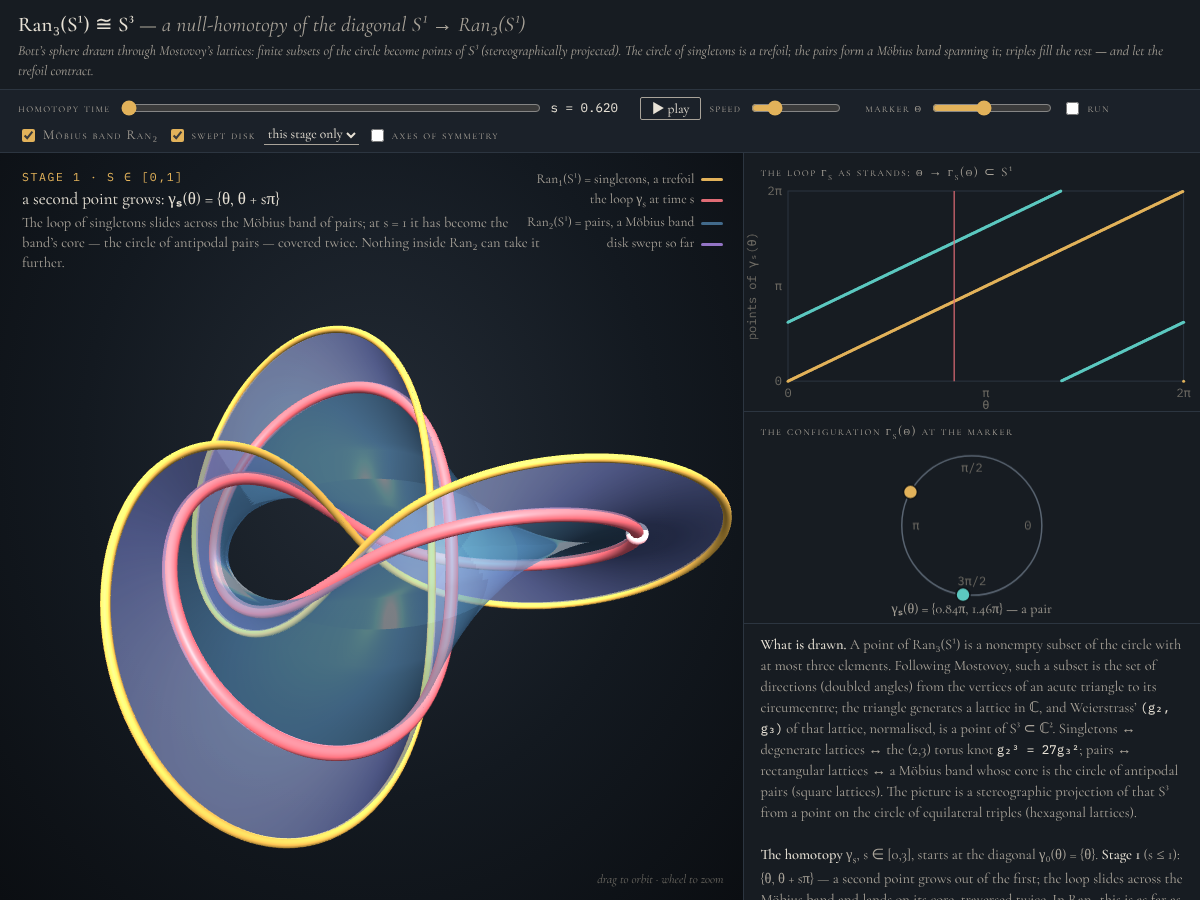
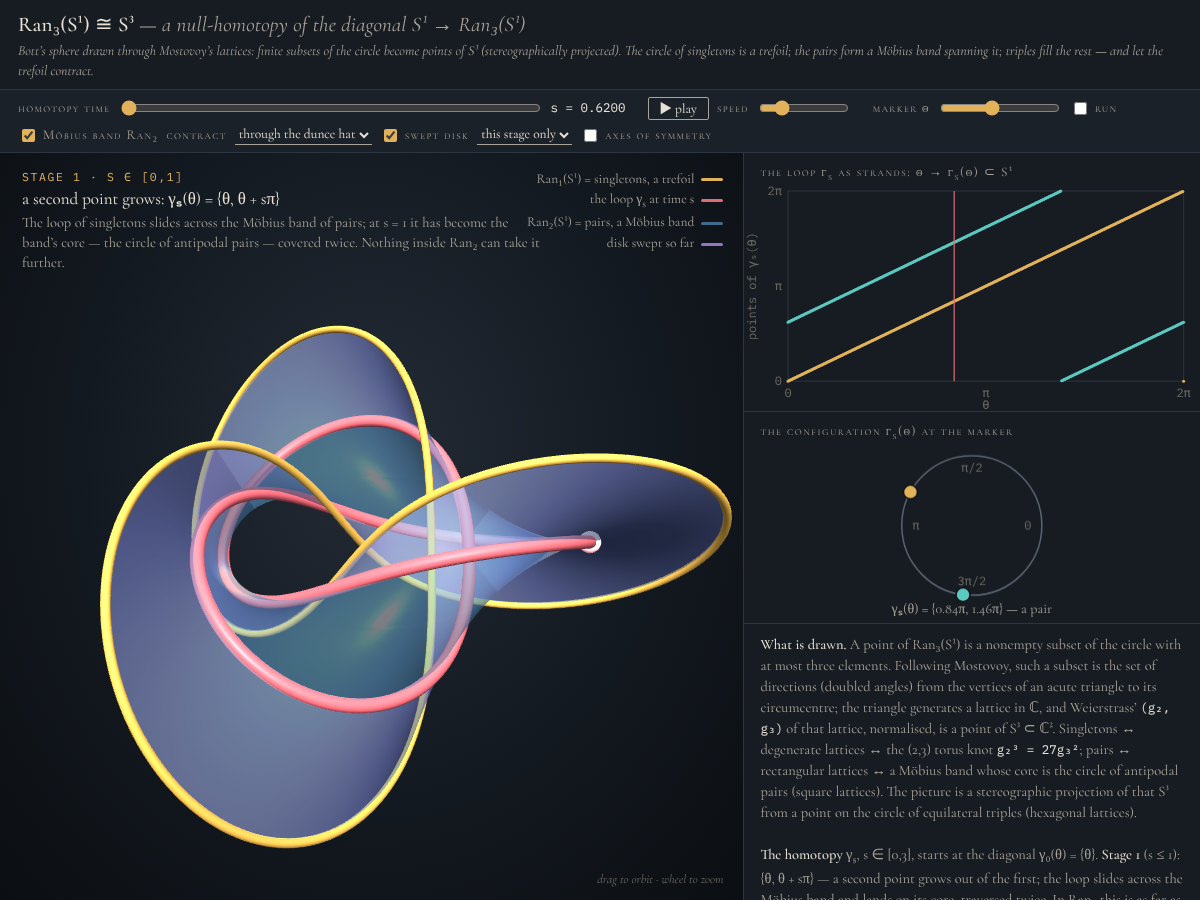
Ran₃(S¹) ≅ S³: null-homotopy of the diagonal; real <sub> in gallery titles

diff --git a/public/ran3-null-homotopy/index.html b/public/ran3-null-homotopy/index.html
@@ -65,11 +65,12 @@
   <div class="sub">Bott’s sphere drawn through Mostovoy’s lattices: finite subsets of the circle become points of S³ (stereographically projected). The circle of singletons is a trefoil; the pairs form a Möbius band spanning it; triples fill the rest — and let the trefoil contract.</div>
 </div>
 <div id="ctl">
-  <div class="grp"><label for="s-range">homotopy time</label><input type="range" id="s-range" min="0" max="3" step="0.002" value="0"><span class="val" id="s-val">s = 0.000</span></div>
+  <div class="grp"><label for="s-range">homotopy time</label><input type="range" id="s-range" min="0" max="3" step="0.0001" value="0"><span class="val" id="s-val">s = 0.0000</span></div>
   <div class="grp"><button id="play">▶ play</button><label for="speed">speed</label><input type="range" id="speed" min="0.05" max="1" step="0.01" value="0.25" style="width:90px"></div>
   <div class="grp"><label for="th-range">marker θ</label><input type="range" id="th-range" min="0" max="1" step="0.001" value="0.13" style="width:120px"><label class="tog"><input type="checkbox" id="th-run" checked>run</label></div>
   <div class="grp">
     <label class="tog"><input type="checkbox" id="show-band" checked>Möbius band Ran₂</label>
+    <label for="mode" style="font-variant:small-caps;letter-spacing:0.1em;color:var(--fg2);font-size:13.5px">contract</label><select id="mode"><option value="dunce" selected>through the dunce hat</option><option value="radial">straight to the origin</option></select>
     <label class="tog"><input type="checkbox" id="show-trace" checked>swept disk</label><select id="trace-mode"><option value="all">since s = 0</option><option value="stage" selected>this stage only</option></select>
     <label class="tog"><input type="checkbox" id="show-ref">axes of symmetry</label>
   </div>
@@ -94,7 +95,7 @@
       <b>The homotopy</b> γ<sub>s</sub>, s ∈ [0,3], starts at the diagonal γ₀(θ) = {θ}.
       <b>Stage 1</b> (s ≤ 1): {θ, θ + sπ} — a second point grows out of the first; the loop slides across the Möbius band and lands on its core, traversed twice. In Ran₂ this is as far as one can go: the boundary of a Möbius band is twice its core, so γ₀ is not null-homotopic there.
       <b>Stage 2</b> (1 ≤ s ≤ 2): still inside the band, the doubled core is slid to the doubled loop m(t) = {p, p + t}, which keeps one point fixed at p = −π/2.
-      <b>Stage 3</b> (2 ≤ s ≤ 3): using a genuine third point, m contracts: {p, p + 2πr, p + 2πr + (1−r)t} with r = s − 2 — one point sits at p, a second runs once around the circle, and the third sweeps the arc between them. The image of this last stage, the set of subsets containing p, is a dunce hat {p} ∪ Ran₂(S¹) inside Ran₃(S¹).
+      <b>Stage 3</b> (2 ≤ s ≤ 3): using a genuine third point, m contracts: {p, p + 2πr, p + 2πr + (1−r)t} with r = s − 2 — one point sits at p, a second runs once around the circle, and the third sweeps the arc between them. The image of this last stage, the set of subsets containing p, is a dunce hat {p} ∪ Ran₂(S¹) inside Ran₃(S¹).<br><br><b>Or straight to the origin.</b> The other setting of <i>contract</i> replaces stages 2–3 by the obvious move in the picture: the doubled core is the unit circle of the horizontal plane, so shrink it radially across the flat disk it bounds. That disk is explicit in S³ (lattices with g₃ purely imaginary) but not in configurations: each of its points is sent back to a subset of S¹ by inverting the whole construction — recover j, solve j(τ) by Newton’s method, rebuild the acute triangle — which is how the strand diagram is filled in. Its centre is one equilateral triple, and on the way in the disk passes through three singletons of the trefoil.
     </div>
   </div>
 </div>
@@ -133,7 +134,8 @@ function g2g3(w1,w2){
   return [[c4*g2[0],c4*g2[1]],[c6*g3[0],c6*g3[1]]];
 }
 const ETA_K=(()=>{let a=1;for(let i=0;i<40;i++){a-= (a*a+a*a*a/27-1)/(2*a+a*a/9);} return Math.atan2(Math.sqrt(a*a*a/27),a);})();
-const KPOW=Math.log(2)/Math.log((Math.PI/2)/ETA_K);
+const UK=ETA_K/(Math.PI/2), AFAT=(1-UK)/UK; // smooth Möbius-type fattening u ↦ a u/(1+(a−1)u), sends the trefoil's Hopf angle to π/4 with finite slope at the core
+const fatten=u=>AFAT*u/(1+(AFAT-1)*u), unfatten=v=>v/(AFAT-(AFAT-1)*v);
 // subset of S¹ (array of 1–3 angles) → point (G2,G3) of the round S³ ⊂ ℂ²
 function toS3(th){
   const al=th.map(t=>((t/2)%Math.PI+Math.PI)%Math.PI); while(al.length<3) al.push(al[0]); al.sort((a,b)=>a-b);
@@ -150,7 +152,7 @@ function toS3(th){
   for(let i=0;i<40;i++){const F=a2*x*x+a3*x*x*x-1, dF=2*a2*x+3*a3*x*x; const nx=x-F/dF; if(!(nx>0)) break; if(Math.abs(nx-x)<1e-15*x){x=nx;break;} x=nx;}
   const r2=Math.sqrt(a2)*x, r3=Math.sqrt(a3)*x*Math.sqrt(x);
   // fatten: Hopf angle η ↦ (π/2)(η/(π/2))^k so the trefoil sits on the Clifford torus
-  let eta=Math.atan2(r3,r2); eta=(Math.PI/2)*Math.pow(eta/(Math.PI/2),KPOW);
+  let eta=Math.atan2(r3,r2); eta=(Math.PI/2)*fatten(eta/(Math.PI/2));
   const p2=Math.atan2(g2[1],g2[0]), p3=Math.atan2(g3[1],g3[0]);
   return [Math.cos(eta)*Math.cos(p2),Math.cos(eta)*Math.sin(p2),Math.sin(eta)*Math.cos(p3),Math.sin(eta)*Math.sin(p3)];
 }
@@ -168,12 +170,83 @@ function gamma(th,s){
   if(s<=2){const u=s-1, h=(1-u)*Math.PI/2+u*tt; return [tt-Math.PI/2+h, tt-Math.PI/2-h];}
   const r=Math.min(s-2,1), t=2*tt; return [P0, P0+TAU*r, P0+TAU*r+(1-r)*t];
 }
+
+// ───────────────────────── the inverse: S³ → Ran₃(S¹) (for the radial contraction) ─────────────────────────
+function E46(tau){ // Eisenstein series at τ (already cusp-stretched)
+  const q=cexp([-TAU*tau[1], TAU*tau[0]]);let E4=[1,0],E6=[1,0],qn=[1,0];
+  for(let n=1;n<=11;n++){qn=cmul(qn,q);E4=[E4[0]+240*SIG3[n-1]*qn[0],E4[1]+240*SIG3[n-1]*qn[1]];E6=[E6[0]-504*SIG5[n-1]*qn[0],E6[1]-504*SIG5[n-1]*qn[1]];}
+  return [E4,E6];
+}
+function nuOf(tau){const [E4,E6]=E46(tau);return cdiv(cmul(E6,E6),cpow(E4,3));} // ν = 27g₃²/g₂³ = E₆²/E₄³
+function toF(t){ // reduce τ into the fundamental domain
+  for(let i=0;i<40;i++){t=[t[0]-Math.round(t[0]),t[1]];const m=t[0]*t[0]+t[1]*t[1];if(m>=1-1e-12)break;t=[-t[0]/m,t[1]/m];}
+  if(t[1]<0.8660254)t[1]=0.8660254;return t;
+}
+function chord(a,b){const d=cabs([a[0]-b[0],a[1]-b[1]]);return d/Math.sqrt((1+a[0]*a[0]+a[1]*a[1])*(1+b[0]*b[0]+b[1]*b[1]));}
+const NUGRID=(()=>{const g=[];for(let i=0;i<=24;i++){const x=-0.5+i/24;for(let j=0;j<=48;j++){const y=0.8660254*Math.pow(3.6,j/48);const t=[x,y];g.push([t,nuOf(t)]);}}return g;})();
+let TAU_HINT=null;
+function tauFromNu(nt){
+  let t=TAU_HINT?newton(nt,TAU_HINT):null;
+  if(!t||chord(nuOf(t),nt)>1e-6){let best=null,bd=1e9;for(const [tt,n] of NUGRID){const d=chord(n,nt);if(d<bd){bd=d;best=tt;}}t=newton(nt,best);if(chord(nuOf(t),nt)>1e-6)t=best;}
+  TAU_HINT=t;return t;
+}
+function newton(nt,best){
+  const h=1e-6, big=cabs(nt)>1;
+  // near the hexagonal point 1/ν has a triple zero, so iterate on a continuous cube root of 1/ν instead
+  let prev=null;
+  const croot=z=>{const m=Math.cbrt(cabs(z)), a=Math.atan2(z[1],z[0])/3;let bestz=null,bdd=1e9;for(let k=0;k<3;k++){const w=[m*Math.cos(a+k*TAU/3),m*Math.sin(a+k*TAU/3)];const d=prev?cabs([w[0]-prev[0],w[1]-prev[1]]):k;if(d<bdd){bdd=d;bestz=w;}}return bestz;};
+  const fn=big?(x=>croot(cdiv([1,0],nuOf(x)))):nuOf;
+  let t=best; if(big){prev=fn(t);} let target=big?croot(cdiv([1,0],nt)):nt;
+  for(let i=0;i<60;i++){
+    const F=fn(t);if(big)prev=F;const r=[F[0]-target[0],F[1]-target[1]];if(cabs(r)<1e-12*(1+cabs(target)))break;
+    const Fh=fn([t[0]+h,t[1]]);const dF=[(Fh[0]-F[0])/h,(Fh[1]-F[1])/h];if(cabs(dF)<1e-14)break;
+    let step=cdiv(r,dF);const L=cabs(step);if(L>0.25){step=[step[0]*0.25/L,step[1]*0.25/L];}
+    t=toF([t[0]-step[0],t[1]-step[1]]);
+  }
+  return t;
+}
+function circum(bx,by,cx,cy){const D=2*(bx*cy-by*cx);const b2=bx*bx+by*by,c2=cx*cx+cy*cy;return [(cy*b2-by*c2)/D,(bx*c2-cx*b2)/D];}
+// point G of the round S³ → subset of S¹ (array of angles)
+function fromS3(G){
+  const r2=Math.hypot(G[0],G[1]), r3=Math.hypot(G[2],G[3]);
+  let eta=Math.atan2(r3,r2); eta=(Math.PI/2)*unfatten(eta/(Math.PI/2));
+  const p2=Math.atan2(G[1],G[0]), p3=Math.atan2(G[3],G[2]);
+  const c=Math.cos(eta), sn=Math.sin(eta);
+  if(c<1e-9){ // hexagonal: equilateral triple. arg g3 = p3 = argE6(ρ)… use the rotation directly
+    const beta=-(p3-Math.atan2(E46([-0.5,0.8660254])[1][1],E46([-0.5,0.8660254])[1][0]))/6; // arg ω1
+    const w1=[Math.cos(beta),Math.sin(beta)], w2=cmul([0.5,0.8660254],w1);
+    const O=circum(w1[0],w1[1],w2[0],w2[1]);return [2*Math.atan2(O[1],O[0]),2*Math.atan2(O[1]-w1[1],O[0]-w1[0]),2*Math.atan2(O[1]-w2[1],O[0]-w2[0])];
+  }
+  const mod=27*sn*sn/(c*c*c), ang=2*p3-3*p2;
+  const nt=[mod*Math.cos(ang),mod*Math.sin(ang)];
+  if(Math.hypot(nt[0]-1,nt[1])<2e-7){ // on the trefoil: singleton; direction from g2 = e^{-4ia}
+    return [-p2/2];
+  }
+  const tp=tauFromNu(nt);
+  const [E4,E6]=E46(tp);
+  const a4=Math.atan2(E4[1],E4[0]), a6=Math.atan2(E6[1],E6[0]);
+  let beta=(a4-p2)/4, bestk=0, bd=1e9;
+  for(let k=0;k<4;k++){const b=beta+k*Math.PI/2;let d=(a6-6*b-p3)%TAU;d=Math.abs(((d+Math.PI)%TAU+TAU)%TAU-Math.PI);if(d<bd){bd=d;bestk=k;}}
+  beta+=bestk*Math.PI/2;
+  const y=tp[1]>1?Math.exp(TAU*(tp[1]-1)):tp[1];
+  let tau=[tp[0],y]; if(tau[0]<0) tau=[tau[0]+1,tau[1]];
+  const w1=[Math.cos(beta),Math.sin(beta)], w2=cmul(tau,w1);
+  const O=circum(w1[0],w1[1],w2[0],w2[1]);
+  return [2*Math.atan2(O[1],O[0]),2*Math.atan2(O[1]-w1[1],O[0]-w1[0]),2*Math.atan2(O[1]-w2[1],O[0]-w2[0])];
+}
+function unstereo(v){const r2=v.x*v.x+v.y*v.y+v.z*v.z, k=2/(1+r2);return [v.x*k, v.z*k, v.y*k, (1-r2)/(1+r2)];}
+// mode B: after stage 1, shrink the doubled core radially to the origin of the projection
+let MODE='dunce';
+function corePt(th,rho){const v=config3(gamma(th,1));const a=Math.atan2(v.z,v.x);return new THREE.Vector3(rho*Math.cos(a),0,rho*Math.sin(a));}
+function gammaB(th,s){ if(s<=1) return gamma(th,s); const rho=Math.max(0,1-(s-1)/2); return fromS3(unstereo(corePt(th,rho))); }
+function point3(th,s){ if(MODE==='dunce'||s<=1) return config3(gamma(th,s)); return corePt(th,Math.max(0,1-(s-1)/2)); }
+function conf(th,s){ return MODE==='dunce'?gamma(th,s):gammaB(th,s); }
 </script>
 <script>
 // ───────────────────────── precompute the swept disk on a (θ, s) grid ─────────────────────────
 const NT=240, NS=361; // θ samples (closed loop), s samples 0..3
-const GRID=new Float32Array(NT*NS*3);
-for(let j=0;j<NS;j++){const s=3*j/(NS-1);for(let i=0;i<NT;i++){const th=TAU*i/NT;const v=config3(gamma(th,s));const k=3*(j*NT+i);GRID[k]=v.x;GRID[k+1]=v.y;GRID[k+2]=v.z;}}
+function makeGrid(){const G=new Float32Array(NT*NS*3);for(let j=0;j<NS;j++){const s=3*j/(NS-1);for(let i=0;i<NT;i++){const th=TAU*i/NT;const v=point3(th,s);const k=3*(j*NT+i);G[k]=v.x;G[k+1]=v.y;G[k+2]=v.z;}}return G;}
+const GRIDS={dunce:makeGrid()};let GRID=GRIDS.dunce;
 function gridPoint(i,j){const k=3*(j*NT+i);return new THREE.Vector3(GRID[k],GRID[k+1],GRID[k+2]);}
 
 // ───────────────────────── scene ─────────────────────────
@@ -238,7 +311,7 @@ const trace=(function(){
 // the moving loop γ_s and the marker
 let loopMesh=null;
 const marker=new THREE.Mesh(new THREE.SphereGeometry(0.075,24,16),new THREE.MeshStandardMaterial({color:0xffffff,emissive:0xe06c75,emissiveIntensity:0.6,roughness:0.3}));scene.add(marker);
-function loopPoints(s){const pts=[];for(let i=0;i<NT;i++)pts.push(config3(gamma(TAU*i/NT,s)));return pts;}
+function loopPoints(s){const pts=[];for(let i=0;i<NT;i++)pts.push(point3(TAU*i/NT,s));return pts;}
 function rebuildLoop(s){
   if(loopMesh){scene.remove(loopMesh);loopMesh.geometry.dispose();}
   loopMesh=tubeFromPoints(loopPoints(s),0.045,0xe06c75,0x4a1a20,NT*2);scene.add(loopMesh);
@@ -247,7 +320,11 @@ function rebuildLoop(s){
 // ───────────────────────── 2-D panels ─────────────────────────
 const cs=document.getElementById('c-strands'),cc=document.getElementById('c-circle');
 function fit(c){const r=c.parentElement.getBoundingClientRect();const dpr=Math.min(devicePixelRatio,2);if(c.width!==Math.round(r.width*dpr)||c.height!==Math.round(r.height*dpr)){c.width=Math.round(r.width*dpr);c.height=Math.round(r.height*dpr);}return [r.width,r.height,dpr];}
-const COLS=['#e2b25a','#5cc8c0','#b48cf0'];
+const COLS=['#e2b25a','#5cc8c0','#b48cf0'];let strandCache=null;
+const PERMS=[[0,1,2],[0,2,1],[1,0,2],[1,2,0],[2,0,1],[2,1,0]];const cdist=(a,b)=>{let e=Math.abs(((a-b)%TAU+TAU)%TAU);return Math.min(e,TAU-e);};
+function matchTriple(c,p){let bp=PERMS[0],bd=1e9;for(const q of PERMS){const d=cdist(c[q[0]],p[0])+cdist(c[q[1]],p[1])+cdist(c[q[2]],p[2]);if(d<bd){bd=d;bp=q;}}return [c[bp[0]],c[bp[1]],c[bp[2]]];}
+// configuration at the marker, with the points ordered to match the strand colours
+function markerConf(th,s){const c=conf(th,s);if(!(MODE==='radial'&&s>1&&strandCache&&strandCache.s===s&&strandCache.mode===MODE))return c;const N=strandCache.cs.length-1;const i=Math.round(th/TAU*N);return matchTriple(c,strandCache.cs[Math.max(0,Math.min(N,i))]);}
 function drawStrands(s,thMark){
   const [W,H,dpr]=fit(cs);const g=cs.getContext('2d');g.setTransform(dpr,0,0,dpr,0,0);g.clearRect(0,0,W,H);
   const L=44,R=16,T=38,B=30,w=W-L-R,h=H-T-B;
@@ -257,9 +334,15 @@ function drawStrands(s,thMark){
   g.textAlign='right';g.fillText('0',L-6,T+h+4);g.fillText('π',L-6,T+h/2+4);g.fillText('2π',L-6,T+4);
   g.save();g.translate(12,T+h/2);g.rotate(-Math.PI/2);g.textAlign='center';g.fillText('points of γₛ(θ)',0,0);g.restore();
   // faint identification marks for p
-  const N=480;
+  const N=MODE==='dunce'?480:240;
+  if(!strandCache||strandCache.s!==s||strandCache.mode!==MODE){TAU_HINT=null;const cs=[];for(let i=0;i<=N;i++)cs.push(conf(TAU*i/N,s));
+    if(MODE==='radial'&&s>1){ // colour strands by continuity: permute each triple to follow the previous sample
+      if(strandCache&&strandCache.mode==='radial'&&strandCache.s>1) cs[0]=matchTriple(cs[0],strandCache.cs[0]); // keep colours stable across s too
+      for(let i=1;i<=N;i++) cs[i]=matchTriple(cs[i],cs[i-1]);
+    }
+    strandCache={s,mode:MODE,cs};}
   g.lineWidth=2.2;
-  for(let i=0;i<=N;i++){const th=TAU*i/N;const c=gamma(th,s);const x=L+w*th/TAU;
+  for(let i=0;i<=N;i++){const th=TAU*i/N;const c=strandCache.cs[i];const x=L+w*th/TAU;
     // sort points to keep colours stable along θ: colour by rank of ((pt−th) mod 2π)
     const pts=c.map(v=>((v%TAU)+TAU)%TAU);
     pts.forEach((pt,k)=>{g.fillStyle=COLS[k];g.beginPath();g.arc(x,T+h*(1-pt/TAU),1.5,0,TAU);g.fill();});
@@ -272,10 +355,14 @@ function drawCircle(s,thMark){
   g.strokeStyle='#5a6572';g.lineWidth=1.5;g.beginPath();g.arc(cx,cy,R,0,TAU);g.stroke();
   g.fillStyle='#6d6a63';g.font='12px IBM Plex Mono, monospace';g.textAlign='center';
   g.fillText('0',cx+R-14,cy+4);g.fillText('π',cx-R+14,cy+4);g.fillText('π/2',cx,cy-R+16);g.fillText('3π/2',cx,cy+R-10);
-  const c=gamma(thMark,s);const pts=[...new Set(c.map(v=>Math.round(((v%TAU)+TAU)%TAU*1e4)/1e4))];
+  const c=markerConf(thMark,s);const pts=[...new Set(c.map(v=>Math.round(((v%TAU)+TAU)%TAU*1e4)/1e4))];
   // tick for p when relevant
-  if(s>1){g.strokeStyle='#3a4450';g.beginPath();const a=P0;g.moveTo(cx+(R-7)*Math.cos(a),cy-(R-7)*Math.sin(a));g.lineTo(cx+(R+7)*Math.cos(a),cy-(R+7)*Math.sin(a));g.stroke();g.fillStyle='#6d6a63';g.fillText('p',cx+(R-18)*Math.cos(a),cy-(R-18)*Math.sin(a)+4);}
-  c.forEach((v,k)=>{const a=v;g.fillStyle=COLS[k];g.beginPath();g.arc(cx+R*Math.cos(a),cy-R*Math.sin(a),7,0,TAU);g.fill();g.strokeStyle='#101418';g.lineWidth=1.5;g.stroke();});
+  if(s>1&&MODE==='dunce'){g.strokeStyle='#3a4450';g.beginPath();const a=P0;g.moveTo(cx+(R-7)*Math.cos(a),cy-(R-7)*Math.sin(a));g.lineTo(cx+(R+7)*Math.cos(a),cy-(R+7)*Math.sin(a));g.stroke();g.fillStyle='#6d6a63';g.fillText('p',cx+(R-18)*Math.cos(a),cy-(R-18)*Math.sin(a)+4);}
+  // coincident points are drawn as one dot split between their colours, so a merge reads as a merge
+  const groups=[];c.forEach((v,k)=>{const gidx=groups.findIndex(G=>cdist(G.a,v)<0.03);if(gidx<0)groups.push({a:v,ks:[k]});else groups[gidx].ks.push(k);});
+  for(const G of groups){const X=cx+R*Math.cos(G.a),Y=cy-R*Math.sin(G.a),n=G.ks.length;
+    G.ks.forEach((k,j)=>{g.fillStyle=COLS[k];g.beginPath();if(n===1)g.arc(X,Y,7,0,TAU);else{g.moveTo(X,Y);g.arc(X,Y,7,-Math.PI/2+j*TAU/n,-Math.PI/2+(j+1)*TAU/n);g.closePath();}g.fill();});
+    g.strokeStyle='#101418';g.lineWidth=1.5;g.beginPath();g.arc(X,Y,7,0,TAU);g.stroke();}
   g.fillStyle='#a9a399';g.font='14px Cormorant Garamond, serif';g.textAlign='center';
   const txt=pts.length===1?'a singleton':pts.length===2?'a pair':'a triple';
   g.fillText(`γₛ(θ) = {${pts.map(v=>(v/Math.PI).toFixed(2)+'π').join(', ')}} — ${txt}`,cx,H-10);
@@ -287,10 +374,14 @@ const stages=[
   ['stage 2 · s ∈ [1,2]','sliding the doubled core to the doubled loop m(t) = {p, p + t}','Still inside the Möbius band. One point of each pair is steered towards p = −π/2; the loop m fixes p and lets the other point run once around the circle. (m is homotopic to the core, so this is just a homotopy within the band.)'],
   ['stage 3 · s ∈ [2,3]','the third point: {p, p + 2πr, p + 2πr + (1−r)t}, r = s − 2','A second point travels once around the circle, back to p, while the third point sweeps the arc between them. These are genuine triples — points of S³ off the Möbius band — and they fill a disk bounding m. The loop collapses to the singleton {p}.'],
 ];
-function setStage(s){const k=s<1?0:s<2?1:2;document.getElementById('st-k').textContent=stages[k][0];document.getElementById('st-t').textContent=stages[k][1];document.getElementById('st-d').textContent=stages[k][2];}
+const stagesB=[stages[0],
+  ['stages 2–3 · s ∈ [1,3]','shrink the doubled core radially to the origin','In the projection the core is the unit circle in the horizontal plane, and the flat disk it bounds is right there: shrink it. The price is that the configurations along the way are only implicit — each point of the disk is a lattice with g₃ purely imaginary, recovered here by inverting j — so the strands show triples appearing without a formula. The centre of the disk is a single equilateral triple; on the way in, the disk crosses three singletons of the trefoil.'],
+];
+function setStage(s){if(MODE==='radial'){const k=s<1?0:1;document.getElementById('st-k').textContent=stagesB[k][0];document.getElementById('st-t').textContent=stagesB[k][1];document.getElementById('st-d').textContent=stagesB[k][2];return;}const k=s<1?0:s<2?1:2;document.getElementById('st-k').textContent=stages[k][0];document.getElementById('st-t').textContent=stages[k][1];document.getElementById('st-d').textContent=stages[k][2];}
 
 // ───────────────────────── UI & loop ─────────────────────────
 const sRange=document.getElementById('s-range'),sVal=document.getElementById('s-val'),playBtn=document.getElementById('play'),speed=document.getElementById('speed');
+document.getElementById('mode').addEventListener('change',e=>{MODE=e.target.value;if(!GRIDS[MODE])GRIDS[MODE]=makeGrid();GRID=GRIDS[MODE];trace.geometry.setAttribute('position',new THREE.BufferAttribute(GRID,3));trace.geometry.computeVertexNormals();dirty=true;});
 const traceMode=document.getElementById('trace-mode');traceMode.addEventListener('change',()=>{dirty=true;});
 const thRange=document.getElementById('th-range'),thRun=document.getElementById('th-run');
 window.setS=v=>{S=v;dirty=true;};
@@ -309,11 +400,11 @@ function frame(now){
   if(thRun.checked){thRange.value=((parseFloat(thRange.value)+dt*0.09)%1).toFixed(4);}
   const thM=parseFloat(thRange.value)*TAU;
   if(dirty){
-    rebuildLoop(S);setStage(S);sVal.textContent='s = '+S.toFixed(3);
-    const rows=Math.max(1,Math.min(NS-1,Math.floor(S/3*(NS-1))));const from=traceMode.value==='stage'?Math.min(rows-1,Math.floor(Math.min(2,Math.floor(S))/3*(NS-1))):0;trace.geometry.setDrawRange(from*NT*6,(rows-from)*NT*6);
+    rebuildLoop(S);setStage(S);sVal.textContent='s = '+S.toFixed(4);
+    const rows=Math.max(1,Math.min(NS-1,Math.floor(S/3*(NS-1))));const from=traceMode.value==='stage'?Math.min(rows-1,Math.floor(Math.min(MODE==='radial'?1:2,Math.floor(S))/3*(NS-1))):0;trace.geometry.setDrawRange(from*NT*6,(rows-from)*NT*6);
     dirty=false;
   }
-  marker.position.copy(config3(gamma(thM,S)));
+  marker.position.copy(point3(thM,S));
   drawStrands(S,thM);drawCircle(S,thM);
   renderer.render(scene,camera);
   requestAnimationFrame(frame);

diff --git a/src/content/viz/belt-trick-braids.md b/src/content/viz/belt-trick-braids.md
@@ -1,5 +1,5 @@
 ---
-title: "The belt trick in Bₙ(S²)"
+title: "The belt trick in B<sub>n</sub>(S²)"
 href: /belt-trick-braids/
 year: 2026
 thumb: /thumbs/belt-trick-braids.png

diff --git a/src/content/viz/lattices-vs-RP2.md b/src/content/viz/lattices-vs-RP2.md
@@ -1,5 +1,5 @@
 ---
-title: "Closed geodesics in X₃"
+title: "Closed geodesics in X<sub>3</sub>"
 href: /lattices-vs-RP2/
 year: 2026
 thumb: /thumbs/lattices-vs-RP2.png

diff --git a/src/content/viz/F2-in-SO3.md b/src/content/viz/F2-in-SO3.md
@@ -1,5 +1,5 @@
 ---
-title: "F₂ inside SO(3) ≅ ℝP³"
+title: "F<sub>2</sub> inside SO(3) ≅ ℝP³"
 href: /F2-in-SO3/
 year: 2026
 thumb: /thumbs/F2-in-SO3.png

diff --git a/src/content/viz/ran3-null-homotopy.md b/src/content/viz/ran3-null-homotopy.md
@@ -1,5 +1,5 @@
 ---
-title: "Ran₃(S¹) ≅ S³"
+title: "Ran<sub>3</sub>(S¹) ≅ S³"
 href: /ran3-null-homotopy/
 year: 2026
 thumb: /thumbs/ran3-null-homotopy.png

diff --git a/src/content/viz/normC2S3.md b/src/content/viz/normC2S3.md
@@ -1,5 +1,5 @@
 ---
-title: "The norm N(C₂→S₃)"
+title: "The norm N(C<sub>2</sub>→S<sub>3</sub>)"
 href: /normC2S3/
 year: 2026
 thumb: /thumbs/normC2S3.png
